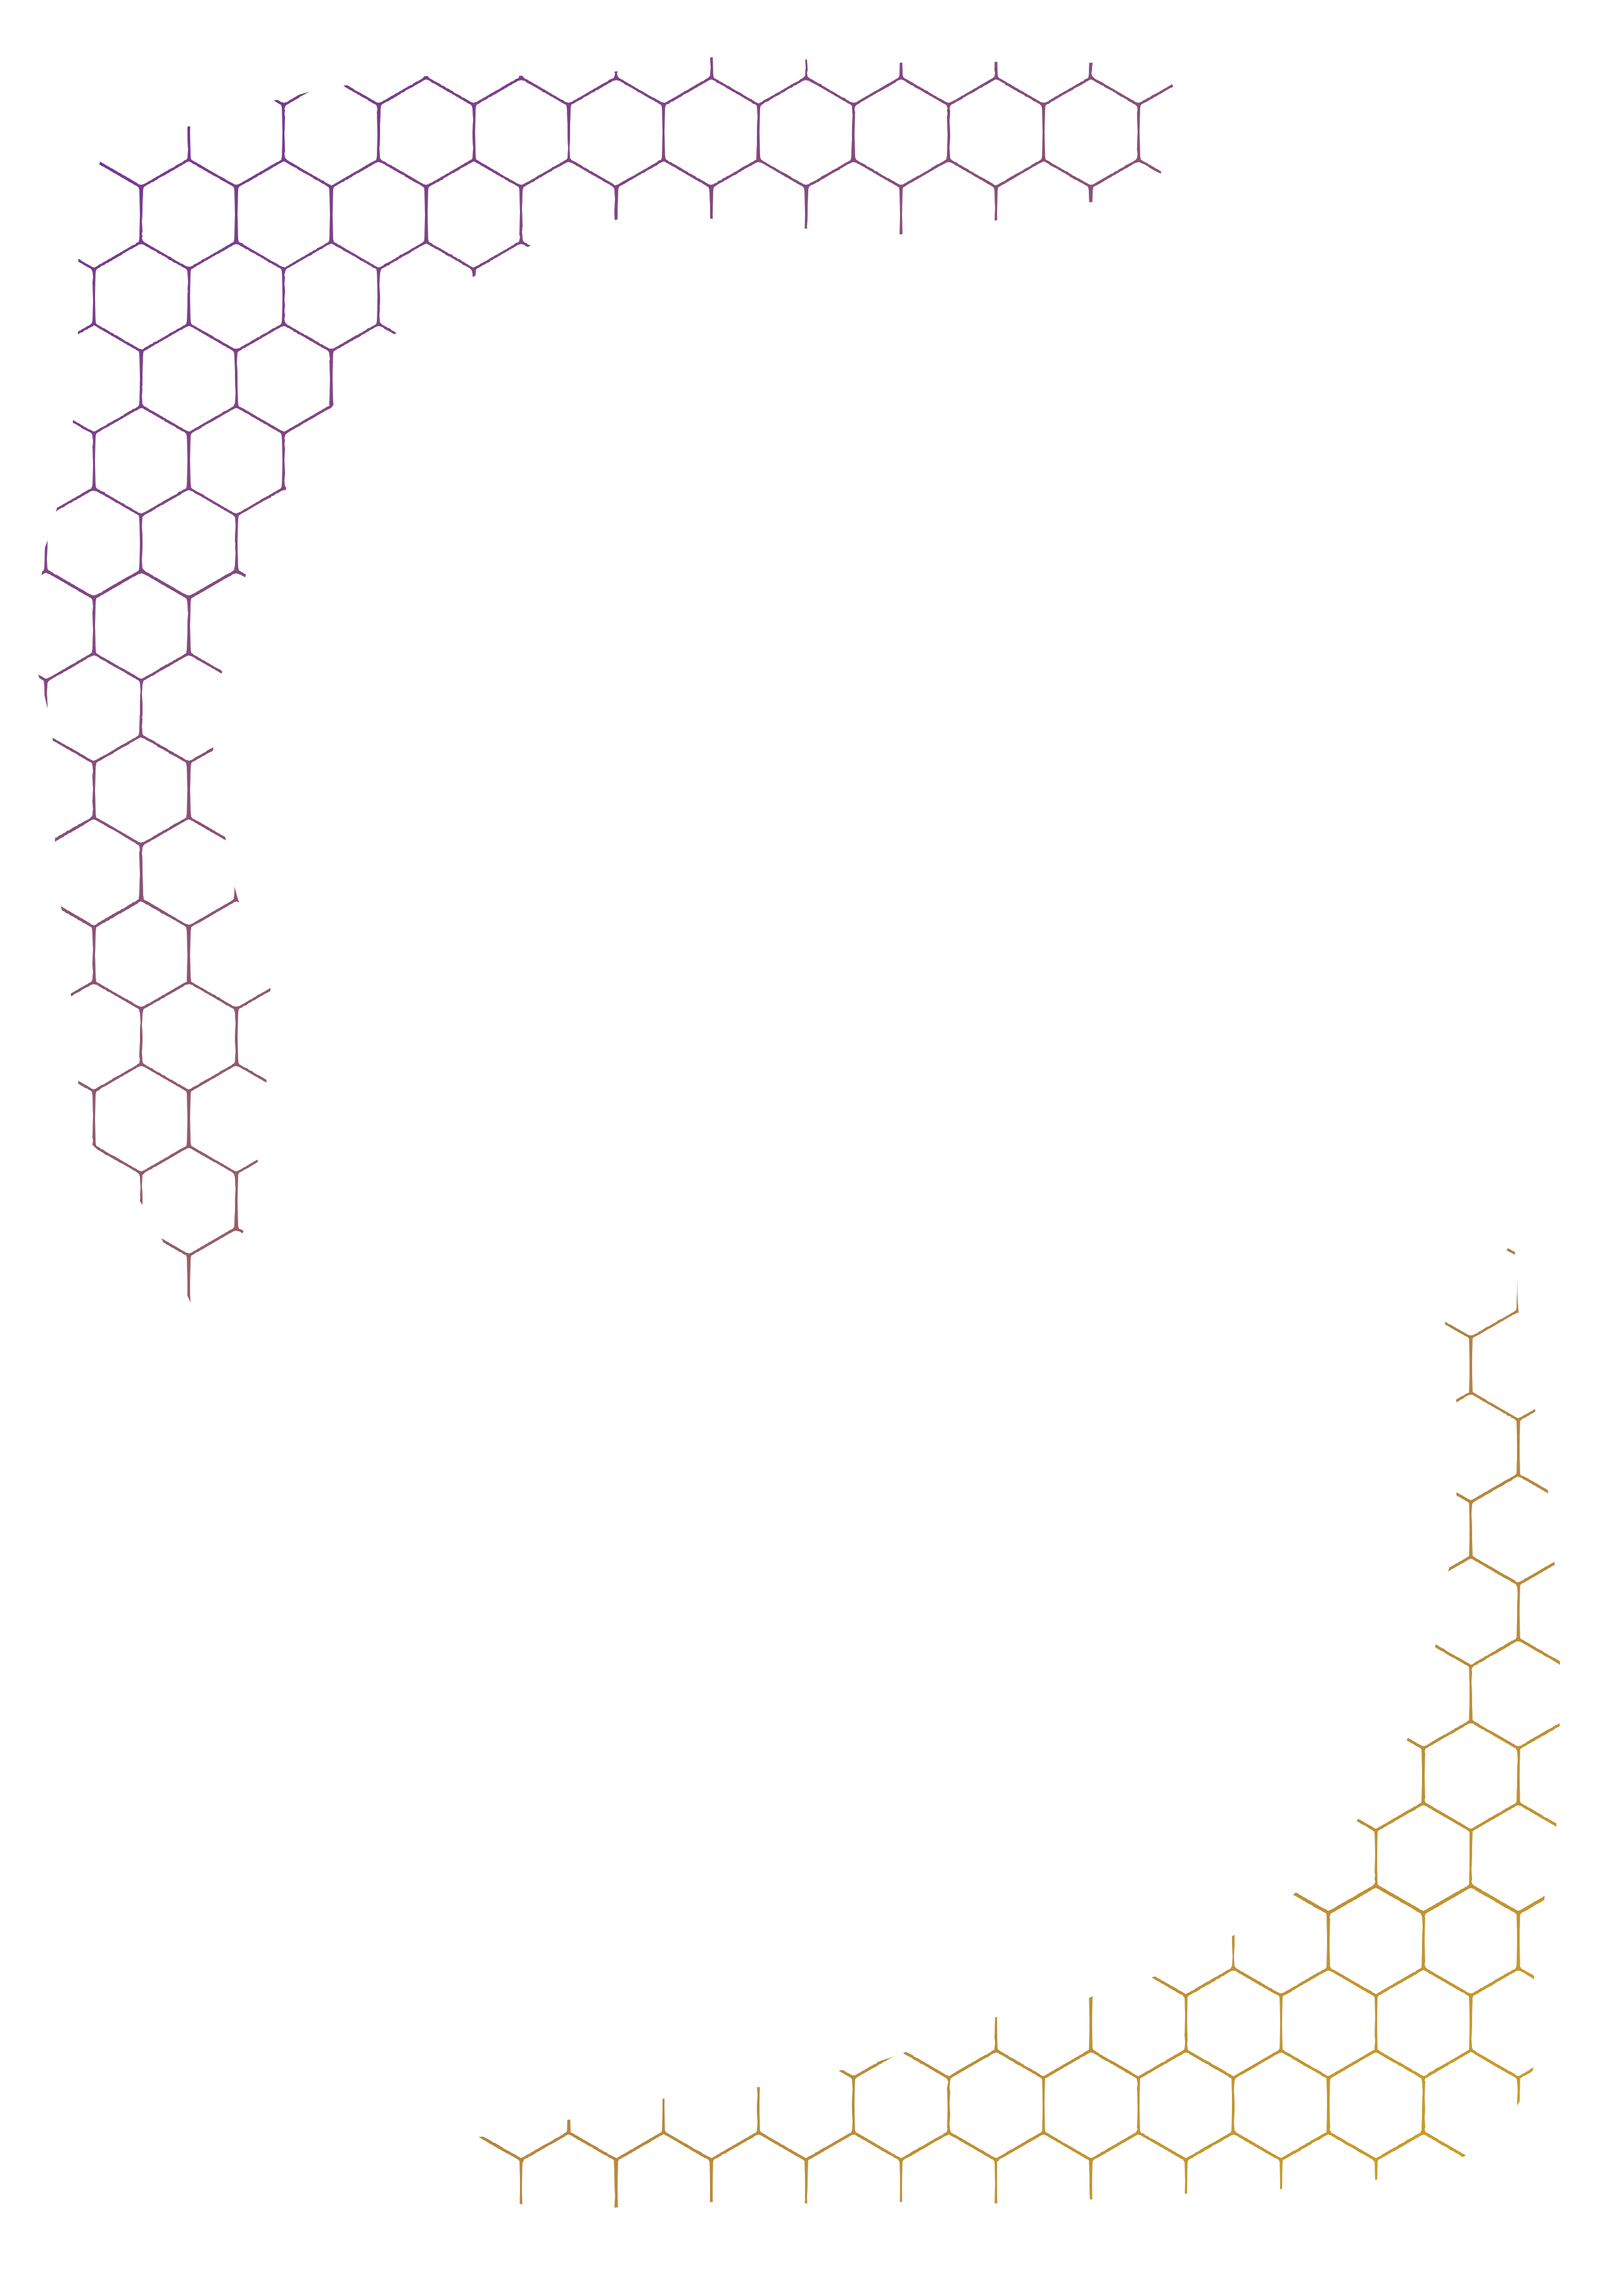
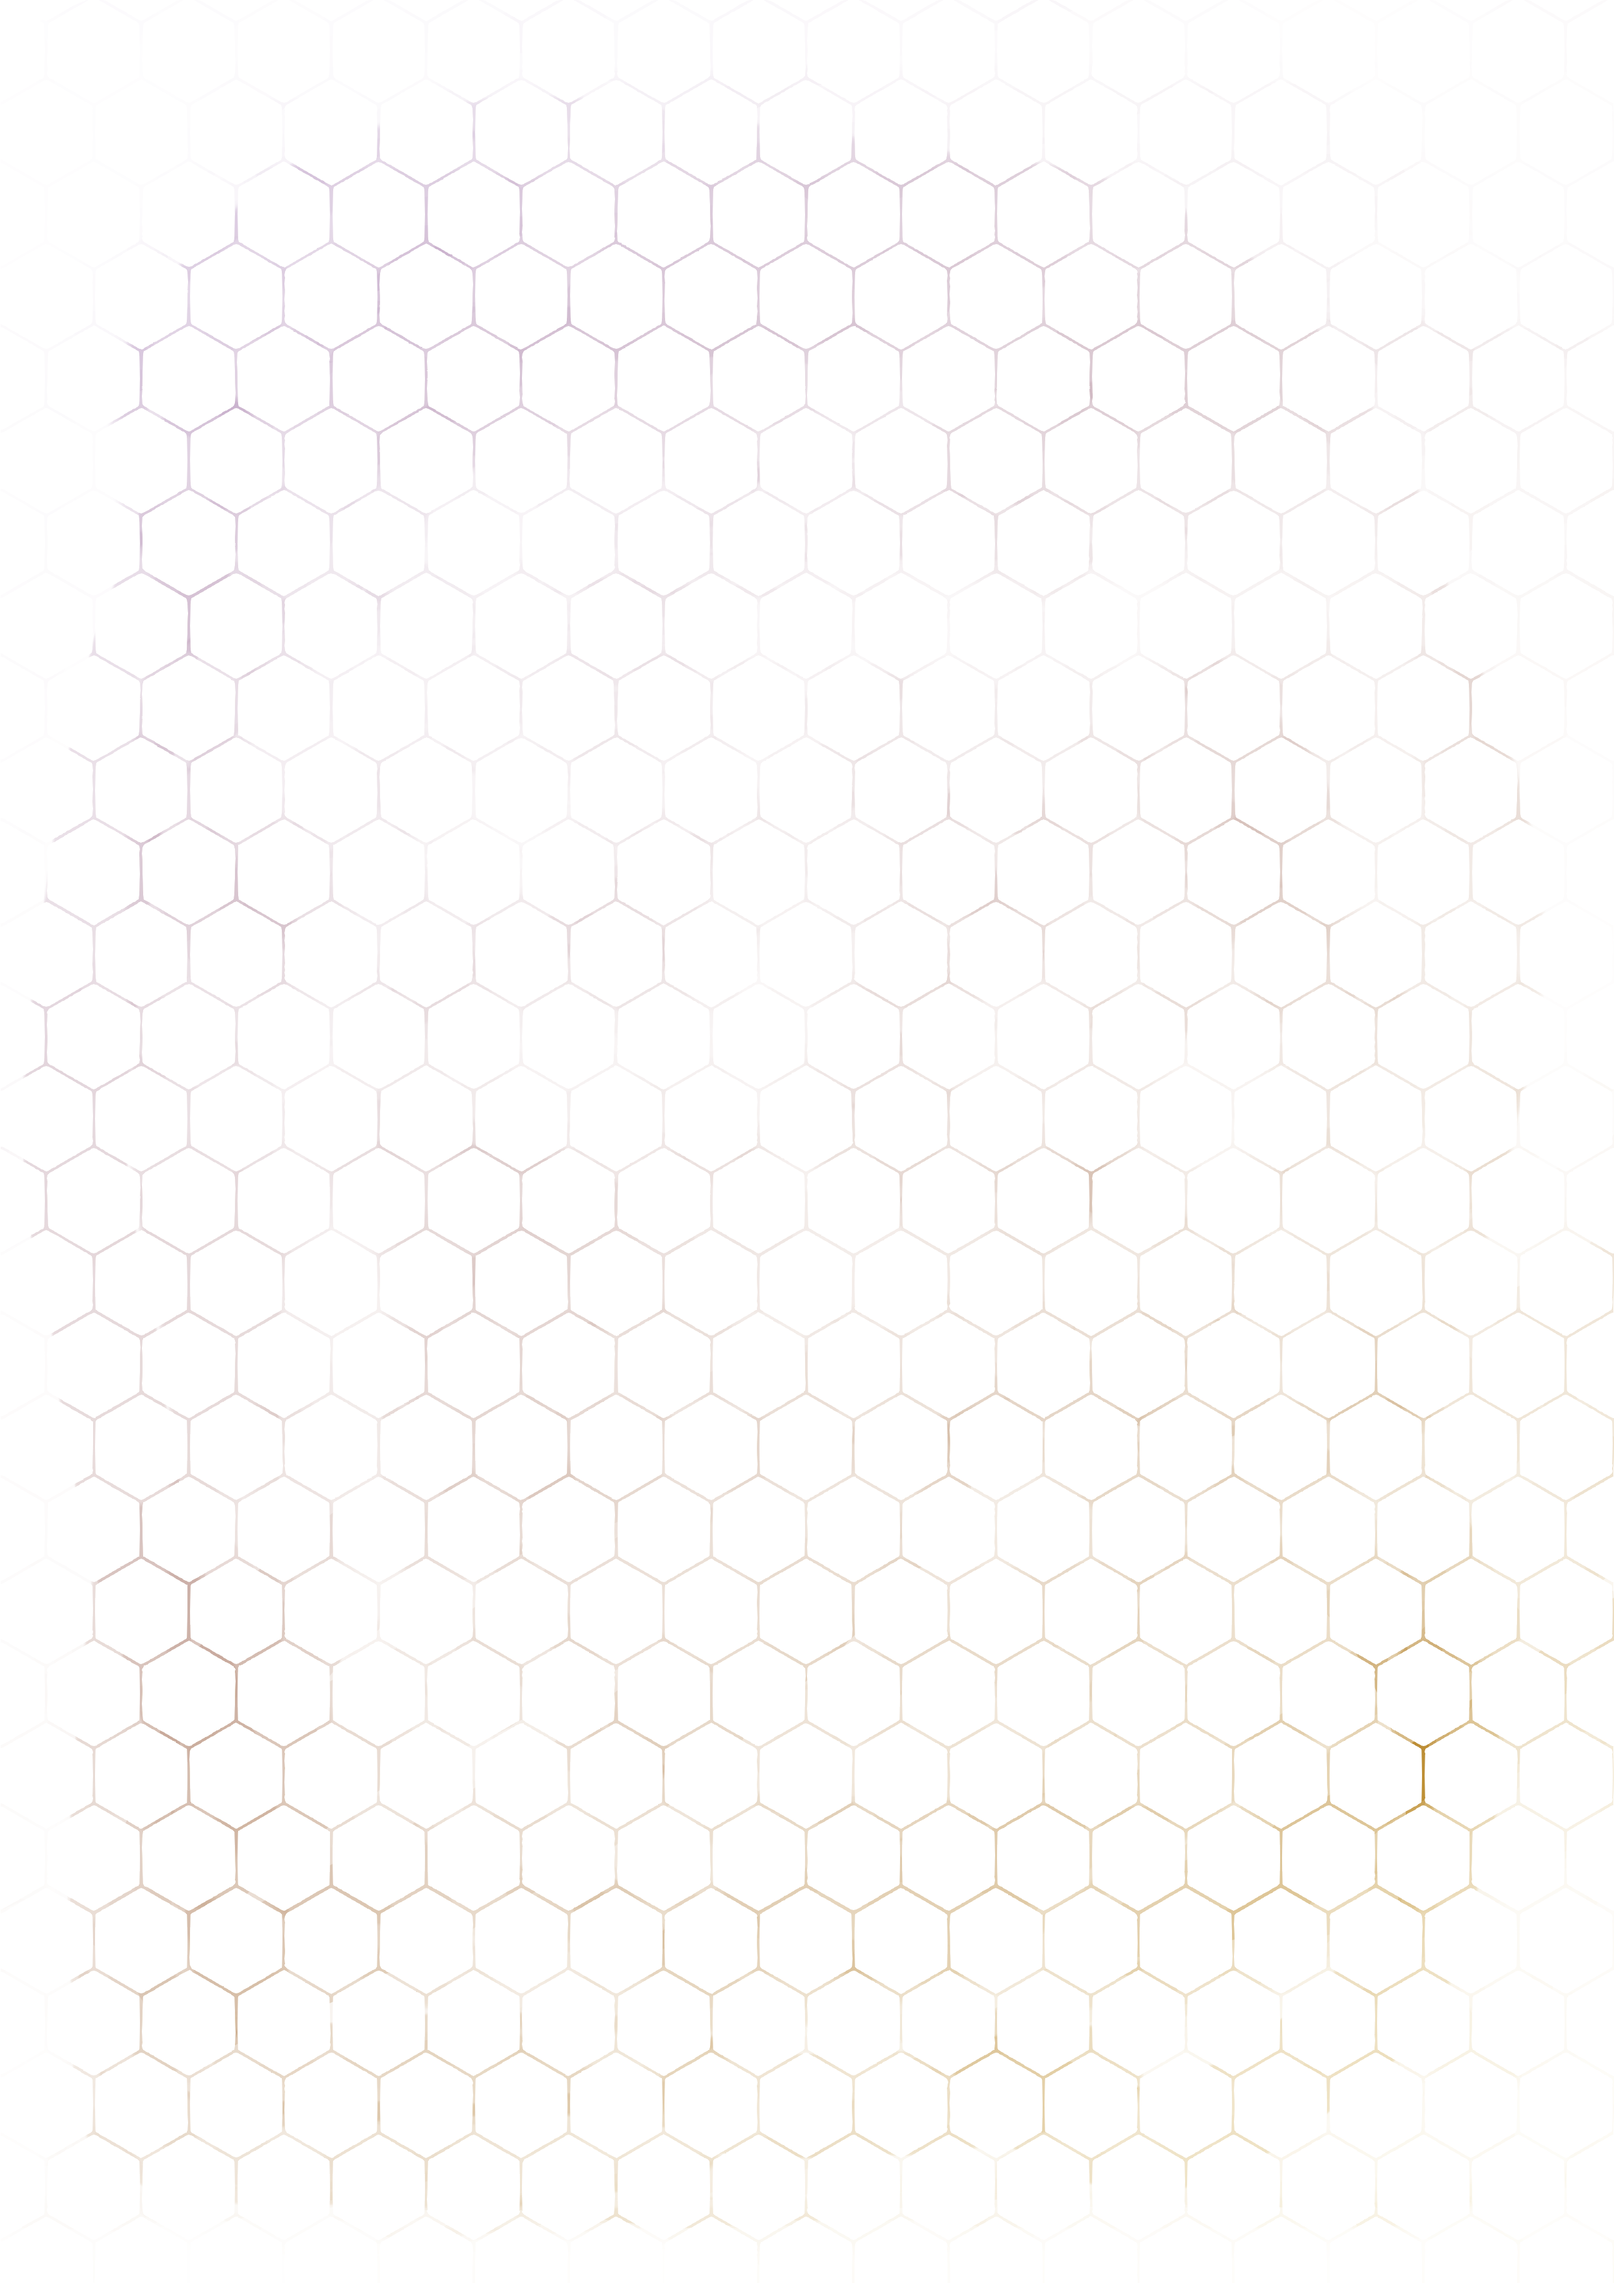
Background changes

diff --git a/legends.css b/legends.css
@@ -1,7 +1,12 @@
 div.mainsheet {
     display: grid;
     grid-template-columns: repeat(5, auto);
-    grid-gap: 10px;    
+    grid-gap: 10px;
+    background-image: url(https://raw.githubusercontent.com/Drazili/Legends-Roll20/refs/heads/main/Legends%20background.png);
+    background-position: center center;
+    background-repeat: no-repeat;
+    object-fit: contain;
+    background-size: contain;
 }
 
 div.twoFifths {
